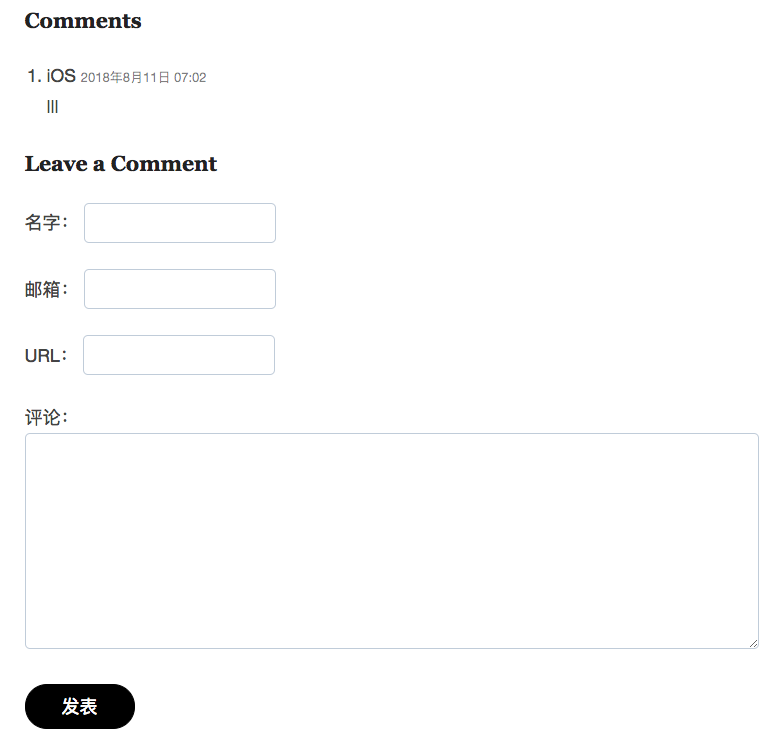
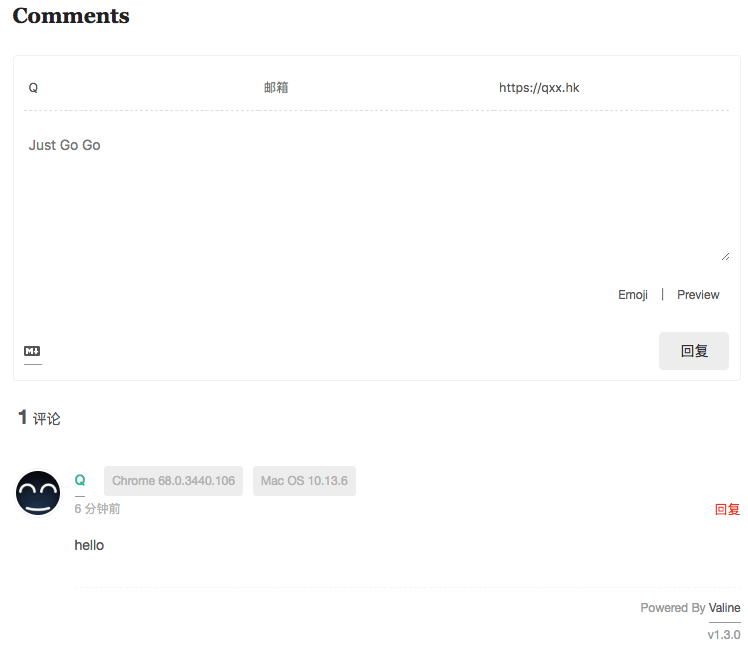
Add Valine comments.

diff --git a/templates/base.html b/templates/base.html
@@ -7,6 +7,8 @@
     <meta name="viewport" content="width=device-width, initial-scale=1, maximum-scale=1">
     <link href="{% static 'style.css' %}" rel="stylesheet" type="text/css">
     <link href="{% static 'code.css' %}" rel="stylesheet">
+    <script src="//cdn1.lncld.net/static/js/3.0.4/av-min.js"></script>
+    <script src='//unpkg.com/valine/dist/Valine.min.js'></script>
     <title>{% block title %}{% endblock %}</title>
 </head>
 <body>

diff --git a/templates/blog.html b/templates/blog.html
@@ -40,7 +40,7 @@
                         <a class="next">下一篇：没有啦</a>
                     {% endif %}
                 </div>
-                {% include 'comment.html' %}
+                {% include 'valine.html' %}
             </div>
         </div>
     </article>

diff --git a/templates/valine.html b/templates/valine.html
@@ -1,0 +1,11 @@
+<br>
+<h3>Comments</h3>
+<div id="vcomments"></div>
+
+<script>
+    new Valine({
+        el: '#vcomments',
+        appId: '<Your appId>',
+        appKey: '<Your appKey>'
+    })
+</script>

diff --git a/README.md b/README.md
@@ -4,13 +4,13 @@
 
 - Python 3.7 和 Django 2.1
 - MySQL
-- xadmin后台管理
-- Simditor Markdown 编辑器，图片 Drag and Drop 上传
+- [xadmin](https://github.com/sshwsfc/xadmin) 后台管理
+- [Simditor Markdown](https://github.com/istommao/django-simditor) 编辑器，图片 Drag and Drop 上传
 - 纯 CSS 前端
 - RSS订阅
 - 标签
-- haystack文章内容搜索
-- 一级文章评论（TODO：多级评论）
+- [haystack](https://github.com/django-haystack/django-haystack) 文章内容搜索
+- [Valine](https://github.com/xCss/Valine) 评论系统
 
 Usage:
 
@@ -68,6 +68,6 @@ python manage.py rebuild_index
 
 ![admin](/github_pic/admin.png)
 
-### Simditor Mardown 文章编辑器 图片上传
+### Simditor Markdown 文章编辑器 图片上传
 
 ![pic_upload](/github_pic/pic_upload.png)
